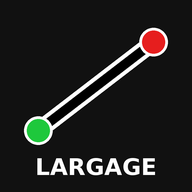
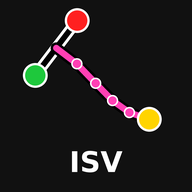
v0.1.2 : icône propre à trace-isv (vecteur, trace rose, PTU)
Claude-Session: https://claude.ai/code/session_01TmBpCYaV98qXVrZNET8Rg8

Changed region(s): [[0.0938, 0.0312, 0.875, 0.7812], [0.1875, 0.7812, 0.8125, 0.9375]]

diff --git a/index.html b/index.html
@@ -9,10 +9,10 @@
 <meta name="apple-mobile-web-app-title" content="trace-isv">
 <meta name="theme-color" content="#111111">
 <link rel="manifest" href="manifest.webmanifest">
-<link rel="apple-touch-icon" href="icon-192.png">
+<link rel="apple-touch-icon" href="icon-192.png?v=0.1.2">
 <title>trace-isv</title>
 <link rel="stylesheet" href="vendor/leaflet.css">
-<link rel="stylesheet" href="style.css?v=0.1.1">
+<link rel="stylesheet" href="style.css?v=0.1.2">
 </head>
 <body>
 <div id="map"></div>
@@ -254,13 +254,13 @@
 
 <div id="toast" class="hidden"></div>
 
-<script src="vendor/leaflet.js?v=0.1.1"></script>
-<script src="vendor/leaflet-rotate.js?v=0.1.1"></script>
-<script src="vendor/mgrs.min.js?v=0.1.1"></script>
-<script src="geo.js?v=0.1.1"></script>
-<script src="wmm.js?v=0.1.1"></script>
-<script src="calc.js?v=0.1.1"></script>
-<script src="app.js?v=0.1.1"></script>
-<script src="photo.js?v=0.1.1"></script>
+<script src="vendor/leaflet.js?v=0.1.2"></script>
+<script src="vendor/leaflet-rotate.js?v=0.1.2"></script>
+<script src="vendor/mgrs.min.js?v=0.1.2"></script>
+<script src="geo.js?v=0.1.2"></script>
+<script src="wmm.js?v=0.1.2"></script>
+<script src="calc.js?v=0.1.2"></script>
+<script src="app.js?v=0.1.2"></script>
+<script src="photo.js?v=0.1.2"></script>
 </body>
 </html>

diff --git a/app.js b/app.js
@@ -10,7 +10,7 @@ document.addEventListener('focusout', e => {
   if (!e.target || !/^(INPUT|SELECT|TEXTAREA)$/.test(e.target.tagName)) return;
   setTimeout(() => { const a = document.activeElement; if (!a || !/^(INPUT|SELECT|TEXTAREA)$/.test(a.tagName)) window.scrollTo(0, 0); }, 60);
 });
-const VERSION = '0.1.1';
+const VERSION = '0.1.2';
 const APP_ID = 'isv';
 // Fonds de carte : Esri (monde entier) ou photos aériennes IGN (France, licence ouverte : hors-ligne et PDF autorisés)
 const BASEMAPS = {

diff --git a/sw.js b/sw.js
@@ -1,5 +1,5 @@
 // Service worker : appli disponible hors-ligne + images satellite en cache.
-const APP_CACHE = 'isv-app-v0.1.1';
+const APP_CACHE = 'isv-app-v0.1.2';
 const TILE_CACHE = 'isv-tiles-v1';
 const APP_FILES = ['./', 'index.html', 'style.css', 'geo.js', 'wmm.js', 'calc.js', 'app.js', 'photo.js', 'manifest.webmanifest',
   'icon-192.png', 'icon-512.png', 'vendor/leaflet.js', 'vendor/leaflet-rotate.js', 'vendor/leaflet.css', 'vendor/mgrs.min.js', 'vendor/jspdf.umd.min.js',
